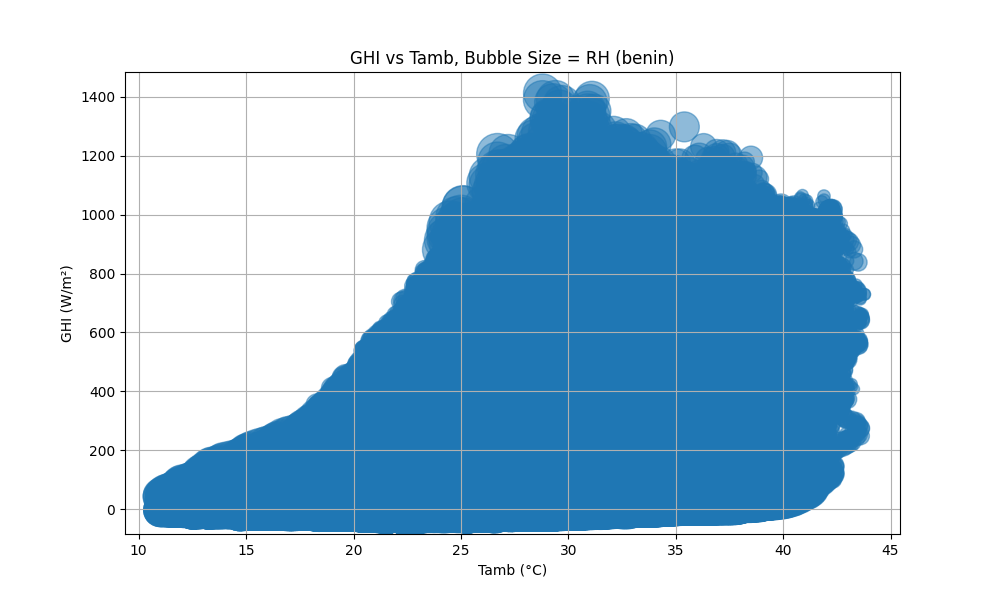
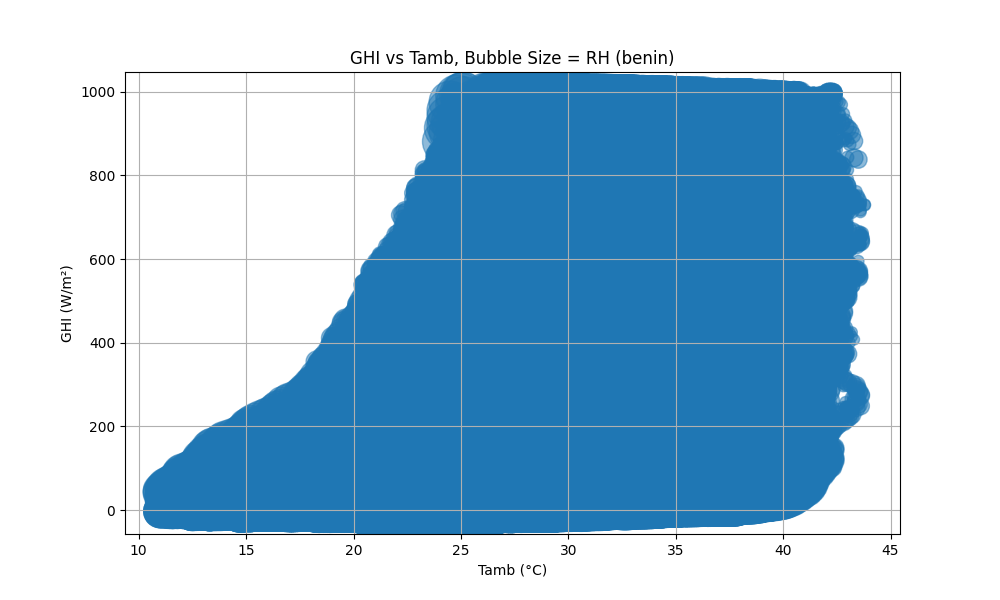
Add outlier capping and update Benin EDA notebook and output images

diff --git a/analysis/eda.py b/analysis/eda.py
@@ -27,6 +27,12 @@ def perform_eda(csv_file, country, output_dir='scripts'):
     outliers= (z_scores.abs()> 3).any(axis=1)
     print(f"\nOutliers (|z|>3) for {country}: {outliers.sum()} rows")
 
+    for col in numeric_cols:
+        lower = df[col].quantile(0.01)
+        upper = df[col].quantile(0.99)
+        df[col] = df[col].clip(lower, upper)
+    print(f"Outliers capped at 1st and 99th percentiles for {country}.")
+
     # Impute missing values with median for key columns
     for col in numeric_cols:
         df[col]=df[col].fillna(df[col].median())
